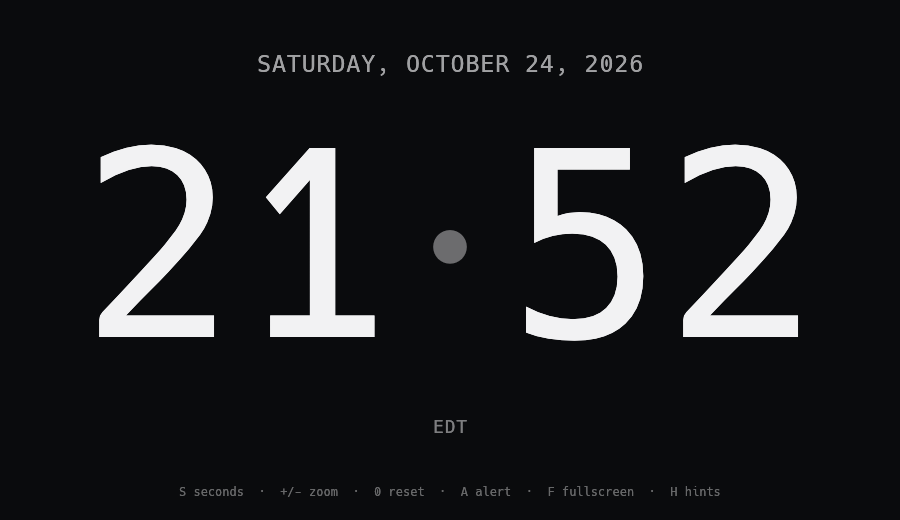
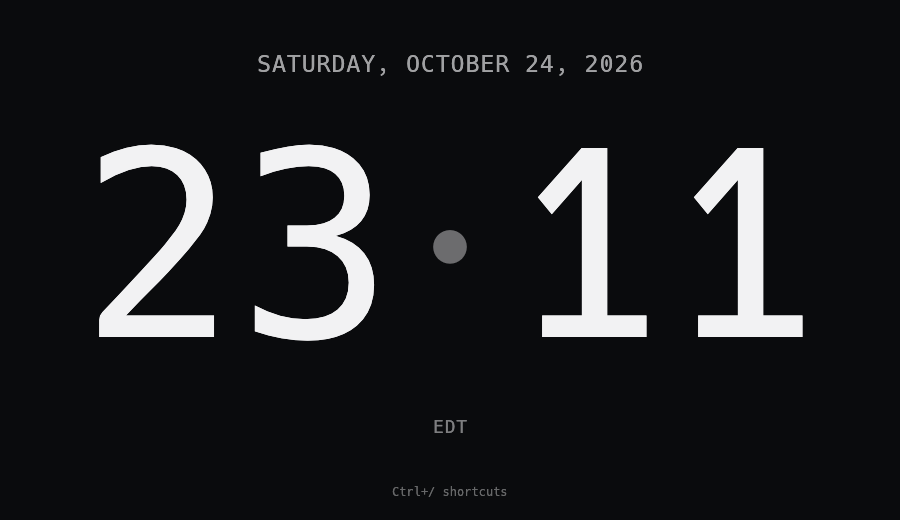
feat: add responsive shortcut reference

diff --git a/src/app/tests.rs b/src/app/tests.rs
@@ -41,6 +41,7 @@ fn clock() -> ClockApp {
         tray: None,
         quitting: false,
         taskbar_hidden: None,
+        shortcuts_open: false,
         #[cfg(target_os = "macos")]
         resizing: None,
     }
@@ -62,6 +63,20 @@ fn run_headless(
     let mut output = ctx.run_ui(input, ui);
     output.textures_delta.clear();
     output
+}
+
+/// Builds a single logical key press with explicit modifiers.
+fn key_input(key: egui::Key, modifiers: egui::Modifiers) -> egui::RawInput {
+    egui::RawInput {
+        events: vec![egui::Event::Key {
+            key,
+            physical_key: None,
+            pressed: true,
+            repeat: false,
+            modifiers,
+        }],
+        ..Default::default()
+    }
 }
 
 /// Checks that every text rectangle fits and that adjacent rows remain separate.
@@ -236,16 +251,7 @@ fn fullscreen_keys_follow_native_state_and_release_the_input_lock() {
     ] {
         let ctx = egui::Context::default();
         let mut app = clock();
-        let mut input = egui::RawInput {
-            events: vec![egui::Event::Key {
-                key,
-                physical_key: None,
-                pressed: true,
-                repeat: false,
-                modifiers: Default::default(),
-            }],
-            ..Default::default()
-        };
+        let mut input = key_input(key, egui::Modifiers::NONE);
         input
             .viewports
             .get_mut(&egui::ViewportId::ROOT)
@@ -261,6 +267,148 @@ fn fullscreen_keys_follow_native_state_and_release_the_input_lock() {
             });
         assert_eq!(fullscreen, expected);
     }
+}
+
+#[test]
+fn shortcut_reference_requires_ctrl_slash_and_toggles_closed() {
+    for (modifiers, opens) in [
+        (egui::Modifiers::NONE, false),
+        (egui::Modifiers::CTRL, true),
+        (
+            egui::Modifiers {
+                mac_cmd: true,
+                command: true,
+                ..egui::Modifiers::NONE
+            },
+            false,
+        ),
+    ] {
+        let ctx = egui::Context::default();
+        let mut app = clock();
+        let _ = run_headless(&ctx, key_input(egui::Key::Slash, modifiers), |_| {
+            app.handle_input(&ctx);
+        });
+        assert_eq!(app.shortcuts_open, opens);
+        if opens {
+            let _ = run_headless(&ctx, key_input(egui::Key::Slash, modifiers), |_| {
+                app.handle_input(&ctx);
+            });
+            assert!(!app.shortcuts_open);
+        }
+    }
+}
+
+#[test]
+fn shortcut_reference_fits_extreme_viewports_and_scales_up_with_the_clock() {
+    let mut menu_sizes = Vec::new();
+    let ctx = egui::Context::default();
+    let mut app = clock();
+    app.shortcuts_open = true;
+    for [width, height] in
+        VIEWPORT_SIZES
+            .into_iter()
+            .chain([[320.0, 1200.0], [2000.0, 220.0], [3840.0, 2160.0]])
+    {
+        let viewport = Rect::from_min_size(Pos2::ZERO, Vec2::new(width, height));
+        for _ in 0..3 {
+            let _ = run_headless(
+                &ctx,
+                egui::RawInput {
+                    screen_rect: Some(viewport),
+                    ..Default::default()
+                },
+                |_| app.shortcuts_ui(&ctx),
+            );
+        }
+        let menu = ctx
+            .memory(|memory| memory.area_rect(egui::Id::unique("keyboard-shortcuts")))
+            .unwrap();
+        assert!(
+            viewport.contains_rect(menu),
+            "{menu:?} outside {viewport:?}"
+        );
+        menu_sizes.push(menu.size());
+    }
+    assert!(menu_sizes[2].x > menu_sizes[0].x);
+    assert!(menu_sizes[3].x > menu_sizes[2].x);
+    assert!(menu_sizes[6].x > menu_sizes[3].x);
+    assert!(menu_sizes[6].y > menu_sizes[2].y);
+}
+
+#[test]
+fn shortcut_reference_blocks_clock_actions_and_escape_only_closes_the_menu() {
+    let ctx = egui::Context::default();
+    let mut app = clock();
+    app.shortcuts_open = true;
+    app.settings.scale = 2.3;
+    let rect = Rect::from_min_size(Pos2::ZERO, MIN_WINDOW_SIZE);
+    let _ = run_headless(
+        &ctx,
+        egui::RawInput {
+            screen_rect: Some(rect),
+            ..Default::default()
+        },
+        |_| app.shortcuts_ui(&ctx),
+    );
+    let settings = app.settings.clone();
+    let mut input = key_input(egui::Key::S, egui::Modifiers::NONE);
+    input.screen_rect = Some(rect);
+    input.events.extend(
+        [
+            egui::Key::A,
+            egui::Key::H,
+            egui::Key::F,
+            egui::Key::Plus,
+            egui::Key::Num0,
+        ]
+        .into_iter()
+        .flat_map(|key| key_input(key, egui::Modifiers::NONE).events),
+    );
+    input.events.extend([
+        egui::Event::PointerMoved(Pos2::new(1.0, 1.0)),
+        egui::Event::PointerButton {
+            pos: Pos2::new(1.0, 1.0),
+            button: egui::PointerButton::Primary,
+            pressed: true,
+            modifiers: egui::Modifiers::NONE,
+        },
+    ]);
+    let output = run_headless(&ctx, input, |ui| {
+        app.handle_input(&ctx);
+        app.handle_pointer(ui);
+        app.shortcuts_ui(&ctx);
+    });
+    assert_eq!(app.settings, settings);
+    assert!(
+        !output.viewport_output[&egui::ViewportId::ROOT]
+            .commands
+            .iter()
+            .any(|command| matches!(
+                command,
+                egui::ViewportCommand::StartDrag
+                    | egui::ViewportCommand::BeginResize(_)
+                    | egui::ViewportCommand::Fullscreen(_)
+            ))
+    );
+
+    let mut input = key_input(egui::Key::Escape, egui::Modifiers::NONE);
+    input.screen_rect = Some(rect);
+    input
+        .viewports
+        .get_mut(&egui::ViewportId::ROOT)
+        .unwrap()
+        .fullscreen = Some(true);
+    let output = run_headless(&ctx, input, |_| {
+        app.handle_input(&ctx);
+        app.shortcuts_ui(&ctx);
+    });
+    assert!(!app.shortcuts_open);
+    assert!(
+        !output.viewport_output[&egui::ViewportId::ROOT]
+            .commands
+            .iter()
+            .any(|command| matches!(command, egui::ViewportCommand::Fullscreen(_)))
+    );
 }
 
 #[test]
@@ -346,14 +494,7 @@ fn smoke_clock() {
         let rect = Rect::from_min_size(Pos2::ZERO, Vec2::new(width, height));
         let input = egui::RawInput {
             screen_rect: Some(rect),
-            events: vec![egui::Event::Key {
-                key: egui::Key::S,
-                physical_key: None,
-                pressed: true,
-                repeat: false,
-                modifiers: Default::default(),
-            }],
-            ..Default::default()
+            ..key_input(egui::Key::S, egui::Modifiers::NONE)
         };
         let _ = run_headless(&ctx, input, |ui| {
             app.handle_input(&ctx);

diff --git a/src/app.rs b/src/app.rs
@@ -20,7 +20,13 @@ const DEFAULT_SCALE: f32 = 1.8;
 const MIN_SCALE: f32 = 0.4;
 const MAX_SCALE: f32 = 3.0;
 const SCALE_STEP: f32 = 0.1;
-const HINT: &str = "S\u{a0}seconds  ·  +/-\u{a0}zoom  ·  0\u{a0}reset  ·  A\u{a0}alert  ·  F\u{a0}fullscreen  ·  H\u{a0}hints";
+const HINT: &str = "Ctrl+/ shortcuts";
+const SHORTCUTS: &[(&str, &str)] = &[
+    ("Seconds", "S"),
+    ("Hourly alert", "A"),
+    ("Fullscreen", "F"),
+    ("Shortcut prompt", "H"),
+];
 
 /// Smallest viewport supported by the clock layout and native resize edges.
 pub(crate) const MIN_WINDOW_SIZE: Vec2 = Vec2::new(320.0, 200.0);
@@ -64,6 +70,7 @@ pub struct ClockApp {
     tray: Option<Tray>,
     quitting: bool,
     taskbar_hidden: Option<bool>,
+    shortcuts_open: bool,
     #[cfg(target_os = "macos")]
     resizing: Option<(Rect, Pos2, egui::ResizeDirection)>,
 }
@@ -96,6 +103,7 @@ impl ClockApp {
             tray,
             quitting: false,
             taskbar_hidden: None,
+            shortcuts_open: false,
             #[cfg(target_os = "macos")]
             resizing: None,
         };
@@ -166,8 +174,15 @@ impl ClockApp {
         }
     }
 
-    /// Handles keyboard toggles, fullscreen controls, and zoom.
+    /// Handles the shortcut menu, clock toggles, fullscreen controls, and zoom.
     fn handle_input(&mut self, ctx: &egui::Context) {
+        if ctx.input_mut(|input| input.consume_key(egui::Modifiers::CTRL, egui::Key::Slash)) {
+            self.shortcuts_open = !self.shortcuts_open;
+            return;
+        }
+        if self.shortcuts_open {
+            return;
+        }
         let fullscreen = ctx.input(|input| {
             use egui::Key;
             if input.key_pressed(Key::S) {
@@ -209,6 +224,9 @@ impl ClockApp {
 
     /// Handles background dragging and resizing through invisible window edges.
     fn handle_pointer(&mut self, ui: &egui::Ui) {
+        if self.shortcuts_open {
+            return;
+        }
         let ctx = ui.ctx();
         let (position, pressed, fullscreen) = ctx.input(|input| {
             (
@@ -289,6 +307,55 @@ impl ClockApp {
             draw_alert_border(ui.painter(), rect, rgb);
         }
     }
+
+    /// Displays the centered, responsive shortcut reference and handles dismissal.
+    fn shortcuts_ui(&mut self, ctx: &egui::Context) {
+        if !self.shortcuts_open {
+            return;
+        }
+        let viewport = ctx.content_rect().size();
+        let scale = (viewport.x.min(viewport.y) / 520.0).clamp(1.0, 2.0);
+        let available = viewport - Vec2::splat(32.0 * scale);
+        let width = (viewport.x * 0.6)
+            .clamp(280.0 * scale, 720.0 * scale)
+            .min(available.x);
+        let modal = egui::Modal::new(egui::Id::unique("keyboard-shortcuts")).show(ctx, |ui| {
+            ui.set_width(width);
+            ui.set_max_height(available.y);
+            ui.visuals_mut().override_text_color = Some(FG);
+            for font in ui.style_mut().text_styles.values_mut() {
+                font.family = egui::FontFamily::Monospace;
+                font.size *= scale;
+            }
+            ui.spacing_mut().item_spacing *= scale;
+            ui.spacing_mut().button_padding *= scale;
+            ui.horizontal(|ui| {
+                ui.heading("Keyboard shortcuts");
+                ui.with_layout(egui::Layout::right_to_left(egui::Align::Center), |ui| {
+                    if ui.button("Close").clicked() {
+                        ui.close();
+                    }
+                });
+            });
+            ui.separator();
+            for (action, keys) in SHORTCUTS {
+                ui.horizontal(|ui| {
+                    ui.label(*action);
+                    ui.with_layout(egui::Layout::right_to_left(egui::Align::Center), |ui| {
+                        ui.label(
+                            egui::RichText::new(*keys)
+                                .monospace()
+                                .color(FG.gamma_multiply(0.65)),
+                        );
+                    });
+                });
+            }
+        });
+        if modal.should_close() {
+            self.shortcuts_open = false;
+            ctx.request_repaint();
+        }
+    }
 }
 
 impl eframe::App for ClockApp {
@@ -320,6 +387,7 @@ impl eframe::App for ClockApp {
         self.handle_pointer(ui);
         let now = Utc::now();
         self.draw(ui, now.with_timezone(&self.tz));
+        self.shortcuts_ui(ui.ctx());
         ui.ctx()
             .request_repaint_after(Duration::from_millis(ms_to_next_tick(
                 &now,

diff --git a/README.md b/README.md
@@ -2,7 +2,7 @@
 
 A large desktop clock in a borderless, resizable window you can tile.
 
-![eclock showing local time, date, time zone, and keyboard hints](assets/screenshot.png)
+![eclock showing local time, date, time zone, and the shortcut prompt](assets/screenshot.png)
 
 eclock reads your system time zone at startup and handles DST. At rest, it
 redraws once per second with seconds shown, or once per minute otherwise.
@@ -27,8 +27,8 @@ From a checkout of this repository:
 cargo run --release
 ```
 
-The clock window opens with your local time, date, and time zone. Press `S`
-to show seconds or `H` to hide the shortcut hints.
+The clock window opens with your local time, date, and time zone. Press `Ctrl+/`
+for the keyboard shortcuts menu, or `S` to show seconds.
 
 To build once and test the local binary directly:
 
@@ -58,6 +58,7 @@ and closing the window exits.
 
 | Key / input | Action |
 | --- | --- |
+| `Ctrl+/` | Open/close the keyboard shortcuts menu |
 | `S` | Toggle seconds |
 | `+` / `=` | Zoom in |
 | `-` | Zoom out |
@@ -65,8 +66,8 @@ and closing the window exits.
 | `0` | Reset zoom |
 | `A` | Toggle hourly alert |
 | `F` | Toggle fullscreen |
-| `Esc` | Leave fullscreen |
-| `H` | Show/hide the hint line |
+| `Esc` | Close the shortcuts menu, or leave fullscreen |
+| `H` | Show/hide the shortcut prompt |
 | drag background | Move the window |
 | drag an edge or corner | Resize the window |
 
@@ -75,8 +76,8 @@ amber from `:55`, then red from `:58`.
 
 ## Settings
 
-eclock remembers seconds visibility, zoom, alert state, and hint visibility in
-an `app.ron` file:
+eclock remembers seconds visibility, zoom, alert state, and shortcut prompt
+visibility in an `app.ron` file:
 
 - **Linux:** `$XDG_DATA_HOME/eclock/app.ron` (usually `~/.local/share/eclock/app.ron`)
 - **macOS:** `~/Library/Application Support/eclock/app.ron`
